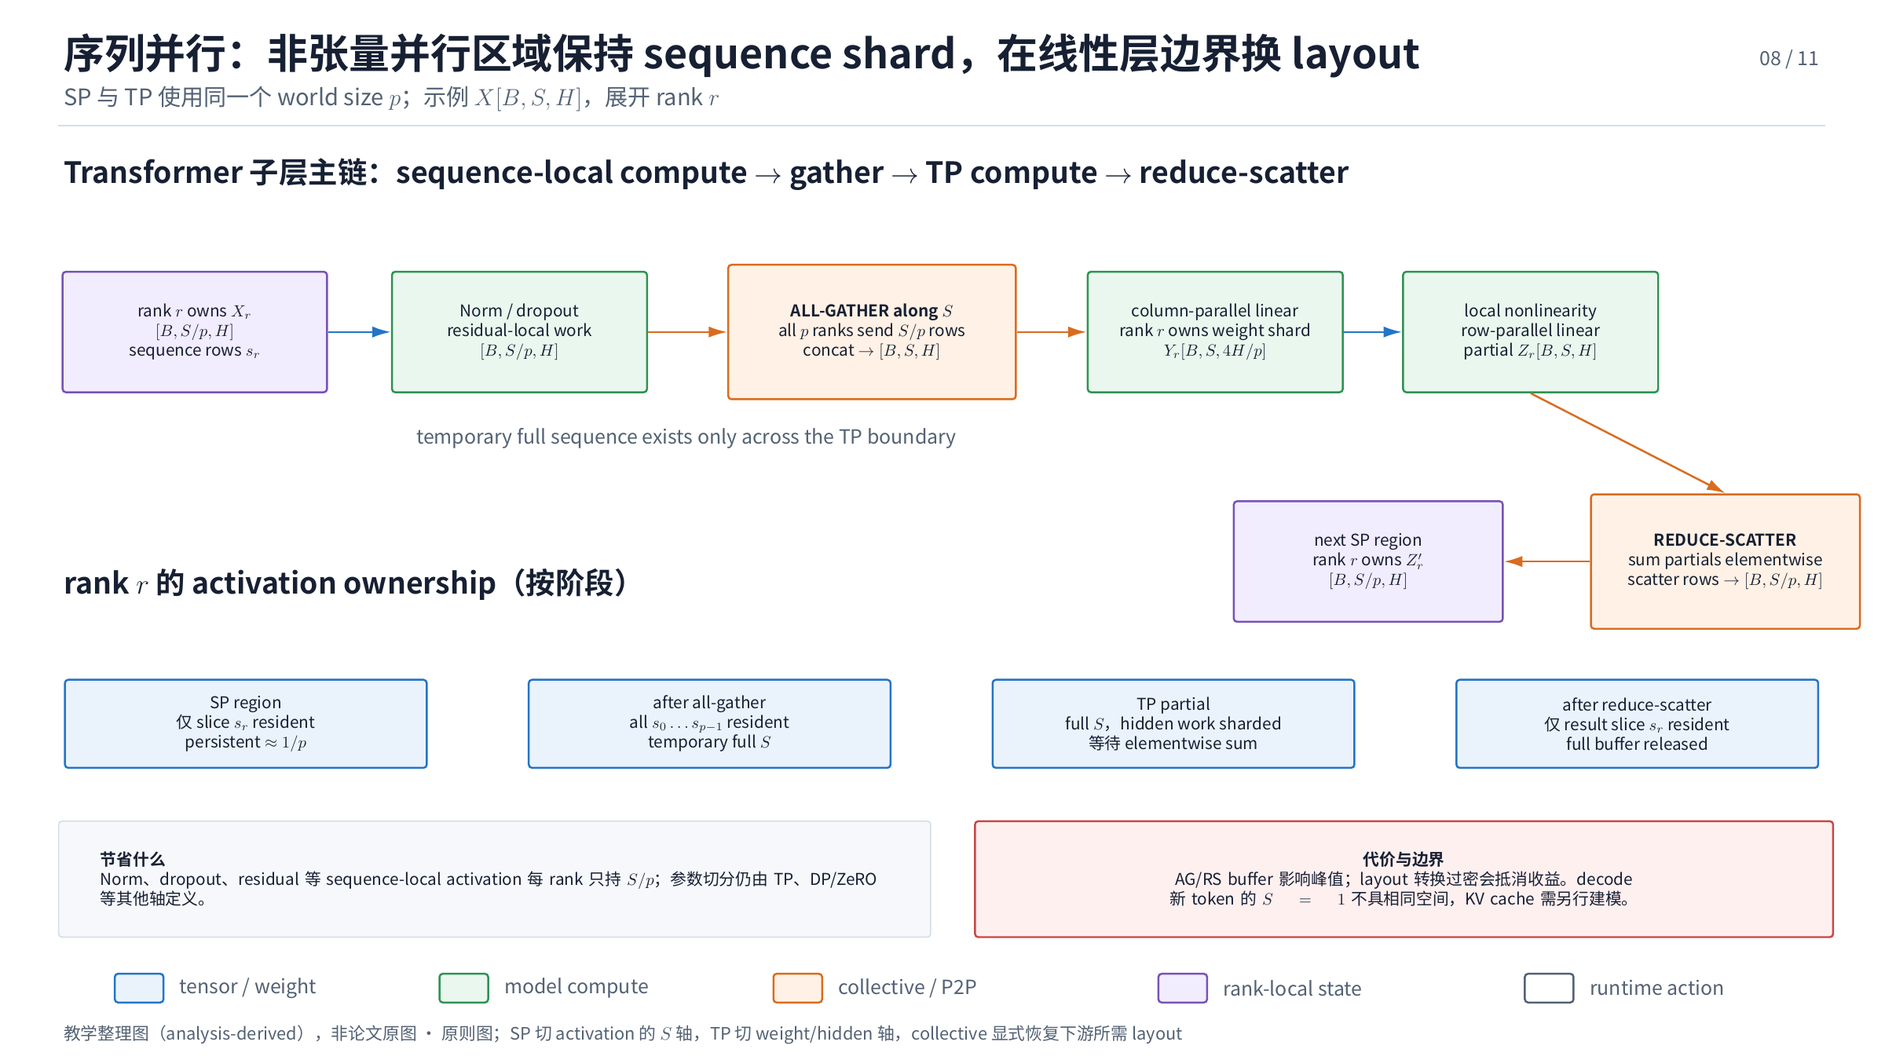
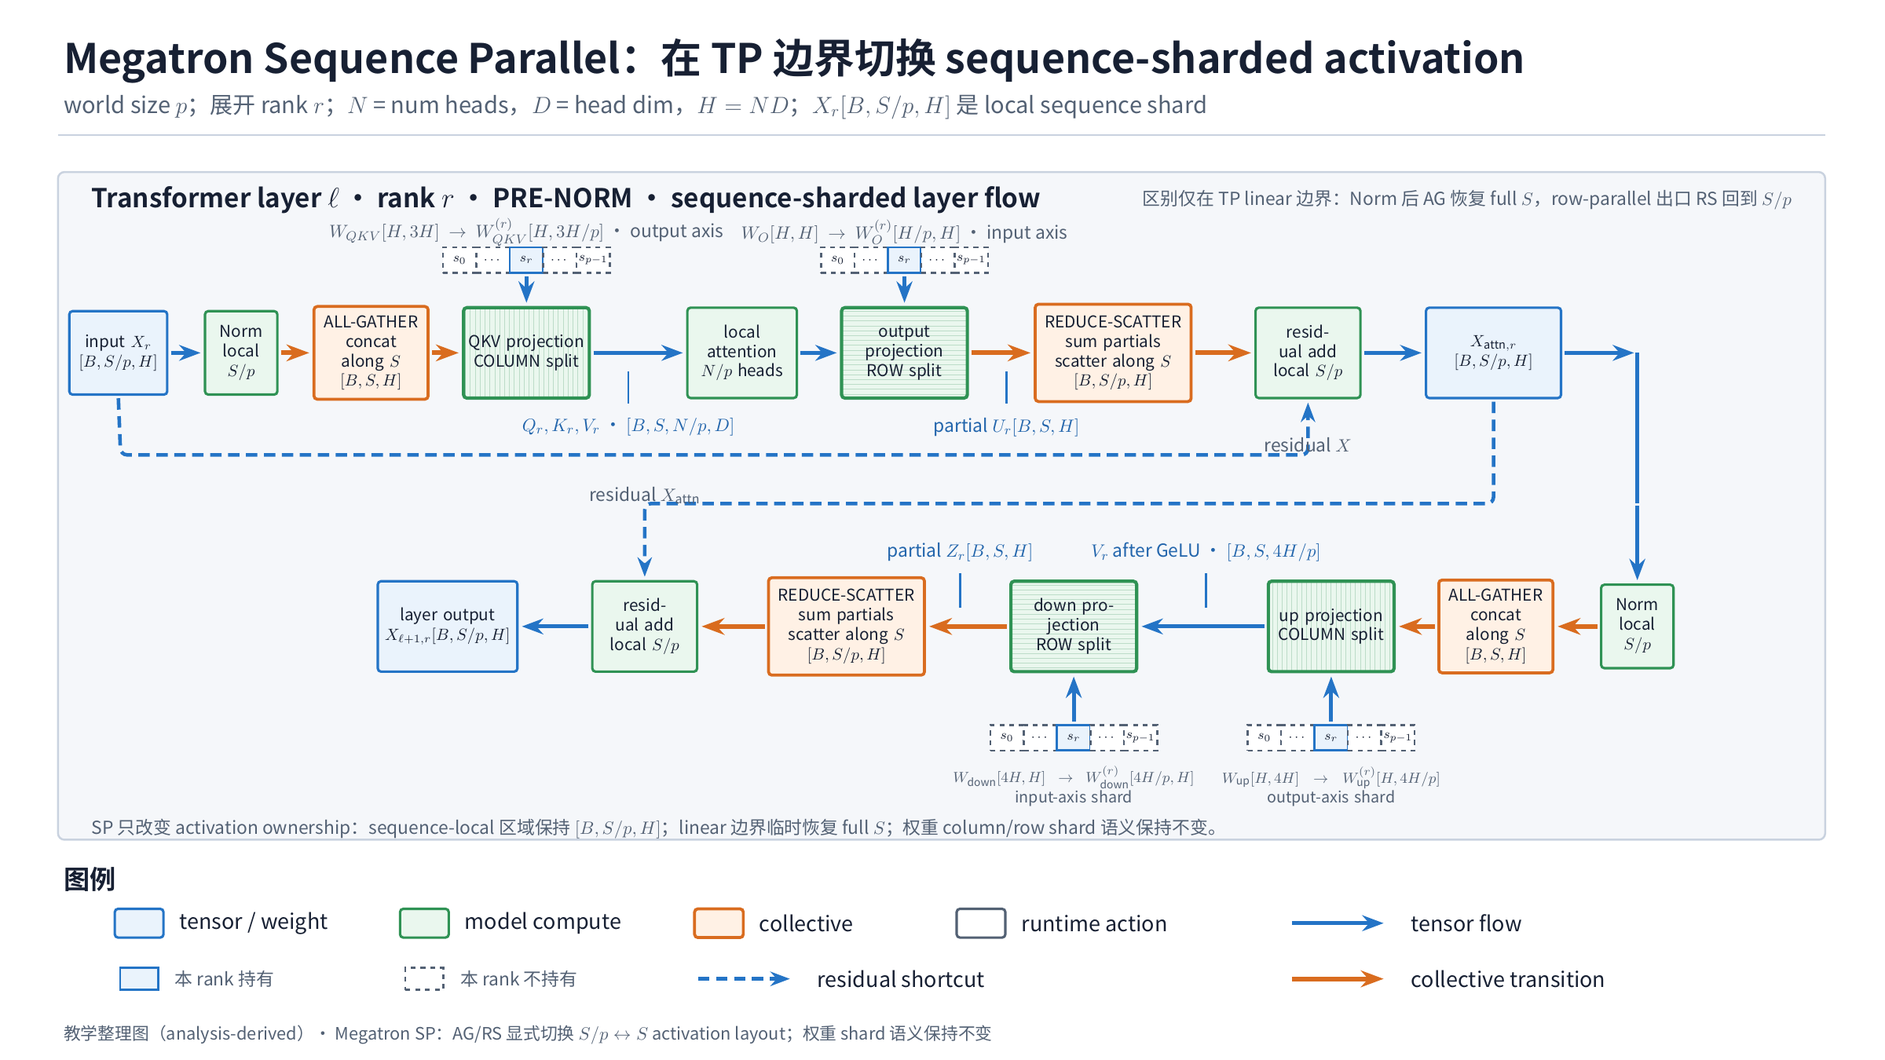
docs(parallelism): refresh SP Ulysses and Ring diagrams

diff --git a/01_ai_infra/parallelism/evidence/figure-inventory.md b/01_ai_infra/parallelism/evidence/figure-inventory.md
@@ -42,9 +42,9 @@ canonical: true
 
 ## Survey 教学整理图
 
-以下 11 张 PNG 全部由 [并行切分方法体系](../surveys/parallel-partitioning-taxonomy.md) 独占，使用 TikZ 排版并以 `2400×1350` 输出。它们是 analysis-derived 教学整理图，不是原论文 Figure/Table，不计入论文视觉证据数量。TikZ 源码、PDF、过程渲染、contact sheet 与像素检查保留在 process workspace。
+以下 11 张 PNG 全部由 [并行切分方法体系](../surveys/parallel-partitioning-taxonomy.md) 独占，使用 TikZ 排版；除 Ring/CP 为收紧画幅后的 `2100×1125` 外，其余以 `2400×1350` 输出。它们是 analysis-derived 教学整理图，不是原论文 Figure/Table，不计入论文视觉证据数量。TikZ 源码、PDF、过程渲染、contact sheet 与像素检查保留在 process workspace。
 
-2026-08-04 的 `1.10.2` 修订把 PP 时间轴明确为 GPipe 全前向/全反向排程，以 BWD 约为 FWD 两倍的时间粒度重画连续计算块，并加入常见训练实现中的跨 stage global-norm barrier 与对齐 optimizer step；同时删除过密的通用本地状态更新链。`1.10.1` 修订纠正 PP 的 backward 拓扑：loss 仅进入最后一个 stage，activation gradient 再按 stage 3 → 2 → 1 → 0 逐边界 P2P 返回；同时显式增加各 stage 本地 weight、gradient、optimizer state 与 update 的交互链。`1.10.0` 修订把 PP、SP、Ulysses、Ring/CP 与 CFGP 补齐到同一 semantic visual grammar：蓝色只表示 tensor/weight，绿色只表示 model compute，橙色表示 collective/P2P，紫色表示 rank-local persistent state，灰色表示 runtime action。PP 分开表示 stage 参数 ownership、单个 micro-batch 的 forward/backward P2P 与 fill-drain 时间轴；SP 显式展示 AG/RS 两侧的 activation ownership 生命周期；Ulysses 保留 sender chunk、receiver concat 与双向 layout transpose；Ring/CP 把固定 $Q$、轮转 KV、online-softmax state、环形 P2P 和 causal imbalance 分层；CFGP 分开显示并行 branches、复制模型状态、branch-output exchange 和 guidance combine。五张图均参数化 world size $p$ 与 illustrated rank $r$，并移除会把 rank 颜色误当节点类型、让箭头穿过状态框或让节点超出画布的旧表达。`1.9.0` 修订统一普通 DP、ZeRO-1/2/3、TP 与 EP 的 tensor-flow 视觉语法：保留输入、输出、当前 micro-batch、ownership 和持久状态等有独立语义的框；其余中间 tensor 改为主箭头附近的蓝色标注，并让细引线与主 flow 保持间距。ZeRO 图保留有助于表达顺序执行的 $m_k$，且 all-gather 输出到计算使用单根完整橙色箭头，避免拼接成多色箭头。TP/EP 按 pre-norm layer 粒度展开，`Norm` 不绑定具体归一化实现；residual shortcut 用独立蓝色虚线，TP 以纵/横条纹区分 column/row split 并显式展示本 rank weight shard，EP 采用单向处理链和 expert ownership 条带。`1.8.0` 将普通 DP 与 ZeRO-1/2/3 更新为框架中立的方法机制图：sampler 与 async release 使用独立 runtime-action 语义；weight、gradient 与 optimizer state 显式展示 ownership；ZeRO-2 删除 bucket 等实现优化；ZeRO-3 用 `MODEL LAYERS × L` 标出 layer-local 重复范围，并把 temporary BF16 weight、FWD/BWD 输入依赖和异步 release 侧支画入 workflow。原理图的可见区域不再包含 framework、commit、配置或源码符号。`1.7.0` 修订用每 rank 单条时间线替换 `1.6.0` 的并列支路，使 micro-batch 顺序由箭头拓扑显式表达。`1.6.0` 曾显式列出 $m_1$、$m_2$、$m_K$ 及累计状态，但并列布局容易被误读为同一 rank 内并发，现已替换。`1.5.0` 将 ZeRO-1 修正为 gradient reduce-scatter、owner-local update 和 parameter all-gather。`1.4.0` 修订把 DP/ZeRO 汇总图拆成普通 DP、ZeRO-1、ZeRO-2、ZeRO-3 四张 workflow。2026-08-02 的 `1.3.0` 修订把原 SVG 重绘为 TikZ。`1.2.0` 参考的 [Colossal-AI Parallelism](https://colossalai.org/docs/concepts/paradigms_of_parallelism) 只作为视觉组织参考；tensor 关系、成本注释和边界条件来自本领域 canonical Paper/Topic/Evidence 的综合分析。
+2026-08-05 的 `1.10.3` 修订刷新 Megatron-SP、Ulysses 与 Ring/CP：SP/Ulysses 对齐层级操作粒度、residual 路径和 $N/D/H$ 符号，Ulysses 直接突出 sequence shard → head shard → sequence shard 的两次 A2A ownership 转换；Ring 将 rank-local attention 作为主链，把邻居 P2P 放在 KV 输入旁并显式连接，使用 $\sigma_j$ 表示逐块合并状态，同时把画幅收紧为 `2100×1125`。三张图均删除制作过程式标题和核心区域中的冗长解释，并由独立 subagent 对最终原分辨率 raster 与全部 QA crops 复审通过。2026-08-04 的 `1.10.2` 修订把 PP 时间轴明确为 GPipe 全前向/全反向排程，以 BWD 约为 FWD 两倍的时间粒度重画连续计算块，并加入常见训练实现中的跨 stage global-norm barrier 与对齐 optimizer step；同时删除过密的通用本地状态更新链。`1.10.1` 修订纠正 PP 的 backward 拓扑：loss 仅进入最后一个 stage，activation gradient 再按 stage 3 → 2 → 1 → 0 逐边界 P2P 返回；同时显式增加各 stage 本地 weight、gradient、optimizer state 与 update 的交互链。`1.10.0` 修订把 PP、SP、Ulysses、Ring/CP 与 CFGP 补齐到同一 semantic visual grammar：蓝色只表示 tensor/weight，绿色只表示 model compute，橙色表示 collective/P2P，紫色表示 rank-local persistent state，灰色表示 runtime action。PP 分开表示 stage 参数 ownership、单个 micro-batch 的 forward/backward P2P 与 fill-drain 时间轴；SP 显式展示 AG/RS 两侧的 activation ownership 生命周期；Ulysses 保留 sender chunk、receiver concat 与双向 layout transpose；Ring/CP 把固定 $Q$、轮转 KV、online-softmax state、环形 P2P 和 causal imbalance 分层；CFGP 分开显示并行 branches、复制模型状态、branch-output exchange 和 guidance combine。五张图均参数化 world size $p$ 与 illustrated rank $r$，并移除会把 rank 颜色误当节点类型、让箭头穿过状态框或让节点超出画布的旧表达。`1.9.0` 修订统一普通 DP、ZeRO-1/2/3、TP 与 EP 的 tensor-flow 视觉语法：保留输入、输出、当前 micro-batch、ownership 和持久状态等有独立语义的框；其余中间 tensor 改为主箭头附近的蓝色标注，并让细引线与主 flow 保持间距。ZeRO 图保留有助于表达顺序执行的 $m_k$，且 all-gather 输出到计算使用单根完整橙色箭头，避免拼接成多色箭头。TP/EP 按 pre-norm layer 粒度展开，`Norm` 不绑定具体归一化实现；residual shortcut 用独立蓝色虚线，TP 以纵/横条纹区分 column/row split 并显式展示本 rank weight shard，EP 采用单向处理链和 expert ownership 条带。`1.8.0` 将普通 DP 与 ZeRO-1/2/3 更新为框架中立的方法机制图：sampler 与 async release 使用独立 runtime-action 语义；weight、gradient 与 optimizer state 显式展示 ownership；ZeRO-2 删除 bucket 等实现优化；ZeRO-3 用 `MODEL LAYERS × L` 标出 layer-local 重复范围，并把 temporary BF16 weight、FWD/BWD 输入依赖和异步 release 侧支画入 workflow。原理图的可见区域不再包含 framework、commit、配置或源码符号。`1.7.0` 修订用每 rank 单条时间线替换 `1.6.0` 的并列支路，使 micro-batch 顺序由箭头拓扑显式表达。`1.6.0` 曾显式列出 $m_1$、$m_2$、$m_K$ 及累计状态，但并列布局容易被误读为同一 rank 内并发，现已替换。`1.5.0` 将 ZeRO-1 修正为 gradient reduce-scatter、owner-local update 和 parameter all-gather。`1.4.0` 修订把 DP/ZeRO 汇总图拆成普通 DP、ZeRO-1、ZeRO-2、ZeRO-3 四张 workflow。2026-08-02 的 `1.3.0` 修订把原 SVG 重绘为 TikZ。`1.2.0` 参考的 [Colossal-AI Parallelism](https://colossalai.org/docs/concepts/paradigms_of_parallelism) 只作为视觉组织参考；tensor 关系、成本注释和边界条件来自本领域 canonical Paper/Topic/Evidence 的综合分析。
 
 | Owner | Asset | 用途 | 分辨率 | 声明 | QA |
 |---|---|---|---|---|---|
@@ -55,7 +55,7 @@ canonical: true
 | [并行切分方法体系](../surveys/parallel-partitioning-taxonomy.md) | [TP](../assets/surveys/parallel-partitioning-taxonomy/tensor-parallel-block.png) | pre-norm attention/FFN layer；$[B,S,H]$ tensor flow；column/row 条纹、rank-local weight ownership、partial all-reduce 与 residual shortcuts | `2400×1350` | 教学整理图 / 非论文证据 | passed：LuaLaTeX、原分辨率逐图检查、tensor callout 间距、shortcut 分离、weight shard/shape/collective 语义 QA，2026-08-04 |
 | [并行切分方法体系](../surveys/parallel-partitioning-taxonomy.md) | [PP](../assets/surveys/parallel-partitioning-taxonomy/pipeline-parallel-schedule.png) | stage ownership、loss 从末级启动并逐边界返回的 activation-gradient P2P、GPipe 全前向/全反向时间轴、global-norm barrier 与对齐 optimizer step | `2400×1350` | 教学整理图 / 非论文证据 | passed：LuaLaTeX、原分辨率逐图检查、loss → stage 3 → 2 → 1 → 0 backward 拓扑、FWD/BWD 时间粒度、global-norm barrier、P2P/ownership/bubble 语义 QA，2026-08-04 |
 | [并行切分方法体系](../surveys/parallel-partitioning-taxonomy.md) | [EP](../assets/surveys/parallel-partitioning-taxonomy/expert-parallel-routing.png) | pre-norm MoE layer 单向执行链；箭头标注 token layout；A2A dispatch/return、local expert FFN、residual shortcut 与 expert weight ownership | `2400×1350` | 教学整理图 / 非论文证据 | passed：LuaLaTeX、原分辨率逐图检查、flow 顺序、tensor callout 间距、shortcut/ownership/A2A 语义 QA，2026-08-04 |
-| [并行切分方法体系](../surveys/parallel-partitioning-taxonomy.md) | [Megatron SP](../assets/surveys/parallel-partitioning-taxonomy/megatron-sequence-parallel.png) | sequence-local compute、AG/RS 边界、TP partial 与阶段 activation ownership | `2400×1350` | 教学整理图 / 非论文证据 | passed：LuaLaTeX、原分辨率逐图检查、rank $r$/shape/buffer lifetime/AG-RS 语义 QA，2026-08-04 |
-| [并行切分方法体系](../surveys/parallel-partitioning-taxonomy.md) | [Ulysses](../assets/surveys/parallel-partitioning-taxonomy/ulysses-layout-transpose.png) | sequence/head ownership transpose、sender chunks、receiver concat、local attention 与两次 A2A | `2400×1350` | 教学整理图 / 非论文证据 | passed：LuaLaTeX、原分辨率逐图检查、$p/r$/shape/sender-receiver/no-sum/layout 语义 QA，2026-08-04 |
-| [并行切分方法体系](../surveys/parallel-partitioning-taxonomy.md) | [Ring/CP](../assets/surveys/parallel-partitioning-taxonomy/ring-context-parallel.png) | fixed local Q、rotating KV、block attention、online-softmax state、causal imbalance | `2400×1350` | 教学整理图 / 非论文证据 | passed：LuaLaTeX、原分辨率逐图检查、双输入不穿框、P2P/ownership/online state/causal matrix 语义 QA，2026-08-04 |
+| [并行切分方法体系](../surveys/parallel-partitioning-taxonomy.md) | [Megatron SP](../assets/surveys/parallel-partitioning-taxonomy/megatron-sequence-parallel.png) | pre-norm attention/FFN 主链；AG/RS 切换 $S/p\leftrightarrow S$ activation ownership；TP partial、独立 output projection 与两条 residual shortcut | `2400×1350` | 教学整理图 / 非论文证据 | passed：独立 subagent 原分辨率全图与 main/ownership/footer crops 复审；标题、$N/D/H$、weight shard、AG/RS、residual 与箭头端点 QA，2026-08-05 |
+| [并行切分方法体系](../surveys/parallel-partitioning-taxonomy.md) | [Ulysses](../assets/surveys/parallel-partitioning-taxonomy/ulysses-layout-transpose.png) | sequence shard → head shard → sequence shard；两次 A2A、local attention、独立 output projection、$X_{attn,r}$ 与两条 residual shortcut | `2400×1350` | 教学整理图 / 非论文证据 | passed：独立 subagent 原分辨率全图与 main/layout/footer crops 复审；标题、$N/D/H$、no-sum A2A、shape、箭头端点与文本归属 QA，2026-08-05 |
+| [并行切分方法体系](../surveys/parallel-partitioning-taxonomy.md) | [Ring/CP](../assets/surveys/parallel-partitioning-taxonomy/ring-context-parallel.png) | rank $r$ 固定 $Q_r$；当前 $K_j,V_j$ 驱动 block attention；$\sigma_j$ 逐块合并；邻居 P2P 轮换 KV | `2100×1125` | 教学整理图 / 非论文证据 | passed：独立 subagent 原分辨率全图与 compute/P2P/state/footer crops 复审；通信 sender/receiver、非零 shaft、KV shape、文本归属、居中与留白 QA，2026-08-05 |
 | [并行切分方法体系](../surveys/parallel-partitioning-taxonomy.md) | [CFGP](../assets/surveys/parallel-partitioning-taxonomy/cfg-branch-parallel.png) | branch assignment、并行 model forward、复制状态、output exchange、guidance combine 与 next step | `2400×1350` | 教学整理图 / 非论文证据 | passed：LuaLaTeX、原分辨率逐图检查、无越界/穿线、branch/state/exchange/combine 语义 QA，2026-08-04 |

diff --git a/01_ai_infra/parallelism/surveys/parallel-partitioning-taxonomy.md b/01_ai_infra/parallelism/surveys/parallel-partitioning-taxonomy.md
@@ -39,7 +39,7 @@ canonical: true
 |---|---|
 | $p$ | 当前讨论的并行 group 大小；多轴组合时每个轴分别取 degree |
 | $B,S,H,L,E$ | 全局 batch、sequence length、hidden size、layer 数、expert 数 |
-| $A,d_h$ | attention head 数与单 head 维度，通常 $H=A d_h$ |
+| $N,D$ | attention head 数与单 head 维度，通常 $H=ND$ |
 | $\Psi$ | 参数元素总数；$\Psi_\ell$ 表示当前 layer 参数元素数 |
 | $q$ | 每元素字节数；mixed precision 时应对 parameter、gradient、master weight、optimizer state 分别取 $q_i$ 后求和 |
 | $M$ | 一个 mini-batch 切出的 micro-batch 数 |
@@ -62,8 +62,8 @@ canonical: true
 | PP          | $L/p$ layers/stage                          | activation/gradient P2P | 每 stage boundary、每 micro-batch send/recv                  | 参数约 $1/p$            | stage activation + boundary buffers     | 理想约 $1/p$               | bubble、最慢 stage、重计算               |
 | EP          | $E/p$ experts + routed tokens               | dispatch/combine A2A    | 每 MoE layer 两次 routed-token A2A；载荷量级 $qT_rH$              | expert state 约 $1/p$ | dispatch buffers，按 max rank             | 理想 expert FLOPs 约 $1/p$ | 热点、capacity/drop、小包               |
 | Megatron SP | non-attention activation 按 $S/p$            | AG/RS 接 TP 边界           | 每 block 的 gather/reduce-scatter                           | 不单独降低参数              | 覆盖区域约 $1/p$                             | 覆盖算子约 $1/p$             | layout 边界、与 TP 绑定                 |
-| Ulysses     | $[B,S/p,A,d_h]\leftrightarrow[B,S,A/p,d_h]$ | 两次 A2A transpose        | attention 前后各一次 A2A                                       | 通常由其他轴决定             | shard + transpose workspace             | attention 约 $1/p$       | head divisibility、fabric          |
-| Ring/CP     | local $Q$ + rotating KV                     | online softmax          | $p-1$ neighbor steps/layer                                | 通常由其他轴决定             | local Q、双 KV buffer、online state        | 理想约 $1/p$               | causal max-rank work、step latency |
+| Ulysses     | $[B,S/p,N,D]\leftrightarrow[B,S,N/p,D]$ | 两次 A2A transpose        | attention 前后各一次 A2A                                       | 通常由其他轴决定             | shard + transpose workspace             | attention 约 $1/p$       | head divisibility、fabric          |
+| Ring/CP     | local $Q$ + rotating KV                     | blockwise state merge          | $p-1$ neighbor P2P steps/layer                                | 通常由其他轴决定             | local Q、双 KV buffer、online state        | 理想约 $1/p$               | causal max-rank work、step latency |
 | CFGP        | branch-local execution                      | guidance combine        | 每 denoise step 交换 branch output                           | 常复制                  | weights/cache 复制 + output buffer        | 两分支时每 rank 约 $1/2$      | 总 FLOPs 不变、分支不均                   |
 
 ## 3. DP 与 ZeRO/FSDP：batch 和模型状态是两条轴
@@ -215,27 +215,27 @@ $$
 
 ![Ulysses layout transpose|1376](../assets/surveys/parallel-partitioning-taxonomy/ulysses-layout-transpose.png)
 
-> 第一次 all-to-all 让每个 sequence owner 把本地 $S/p$ rows 按 head 切成 $p$ 份；每个 head owner 接收所有 ranks 的 sequence chunks 并 concat，得到 $[B,S,A/p,d_h]$。本地 attention 后第二次 all-to-all 做逆转置，重新得到 $[B,S/p,A,d_h]$。两次通信都只改变元素 owner，不做数值归约。
+> Ulysses 用第一次 all-to-all 把 attention activation 从 sequence shard 转成 head shard：每个 sequence owner 将本地 $S/p$ rows 按 head 切成 $p$ 份，每个 head owner 接收所有 ranks 的 sequence chunks 并 concat，得到 $[B,S,N/p,D]$。本地 attention 后，第二次 all-to-all 做逆转置，恢复 $[B,S/p,N,D]$ 的 sequence shard。两次通信都只改变元素 owner，不做数值归约。
 
 > 教学整理图，非论文证据。论文公式、有限实现核验和复合收益边界见 [DeepSpeed Ulysses](../papers/deepspeed-ulysses.md#核心机制)。
 
 ### 方法卡
 
-- **全局对象 / local layout**：attention 前由 $[B,S/p,A,d_h]$ 经 all-to-all 变为 $[B,S,A/p,d_h]$；每 rank 看完整 sequence，但只负责 $A/p$ heads。attention 后第二次 all-to-all 恢复 sequence shard。
+- **全局对象 / local layout**：attention 前由 $[B,S/p,N,D]$ 经 all-to-all 变为 $[B,S,N/p,D]$；每 rank 看完整 sequence，但只负责 $N/p$ heads。attention 后第二次 all-to-all 恢复 sequence shard。
 - **复制对象**：参数状态通常由 ZeRO/DP/TP 决定；Ulysses 主要改变 Q/K/V 与 attention output 的 activation ownership。
 - **恢复语义**：两次 all-to-all 是 layout transpose，不是数值求和；local attention 保持标准精确语义。
-- **通信频率 / 载荷**：forward attention 前后各一次 A2A；具体元素倍数取决于 Q/K/V 是否合并传输、kernel 和 backward schedule。总量随 $BSA d_h$，每 rank shard 量级随 $1/p$，**analysis-derived**。
+- **通信频率 / 载荷**：forward attention 前后各一次 A2A；具体元素倍数取决于 Q/K/V 是否合并传输、kernel 和 backward schedule。总量随 $BSND$，每 rank shard 量级随 $1/p$，**analysis-derived**。
 - **模型状态 / activation / workspace**：attention activation 和局部计算约按 $1/p$ 分摊，但 transpose send/recv buffer、通信 workspace 与 full-$S$ local-head kernel workspace 必须计峰值。
 - **有效计算**：attention FLOPs 理想约 $1/p$，全局 exact-attention FLOPs 不变。
 - **额外项**：没有算法近似或 bubble；uneven heads、A2A fragmentation 和 fabric contention 形成 imbalance。
 - **推理差异**：prefill 与训练更接近论文数据流；decode 只有单 token Q，却访问 full-history KV，KV cache ownership 与 A2A 是否值得需另建 serving 模型。
-- **失效条件**：$A$ 不能合理按 $p$ 分片、跨节点 A2A 拥塞、通信不能与 attention compute 重叠，或与 TP head 轴发生 layout 冲突。
+- **失效条件**：$N$ 不能合理按 $p$ 分片、跨节点 A2A 拥塞、通信不能与 attention compute 重叠，或与 TP head 轴发生 layout 冲突。
 
 ## 9. Ring / Context Parallel：local Q 固定、KV block 环传
 
-![Ring Context Parallel|1525](../assets/surveys/parallel-partitioning-taxonomy/ring-context-parallel.png)
+![Ring Context Parallel|1376](../assets/surveys/parallel-partitioning-taxonomy/ring-context-parallel.png)
 
-> rank $r$ 固定持有 $Q_r$ 与最终输出 $O_r$；current/next buffer 逐步接收轮转的 $K_j,V_j$ block。两条独立输入线汇入 block attention，online-softmax state 再逐 block 合并。中部环形 P2P 展示 KV ownership transfer，底部 causal block matrix 则单独展示不同 $Q_i$ rows 的有效计算不均衡。
+> 图以 rank $r$ 为主视角：$Q_r$ 固定不动，当前 $K_j,V_j$ 输入 block attention，并把结果逐块合并进 $\sigma_j=(m_j,l_j,o_j)$；完成 $p$ 个 KV blocks 后得到 $O_r$。左侧邻居链明确通信对端：$r_-\rightarrow r$ 接收 $KV_{next}$，$r\rightarrow r_+$ 发送当前 $KV_j$，轮换后的 KV 在下一步接入同一条 attention 主链。
 
 > 教学整理图，非论文证据。online softmax、blockwise 机制与证据边界见 [Ring Attention](../papers/ring-attention.md#核心机制)。
 
